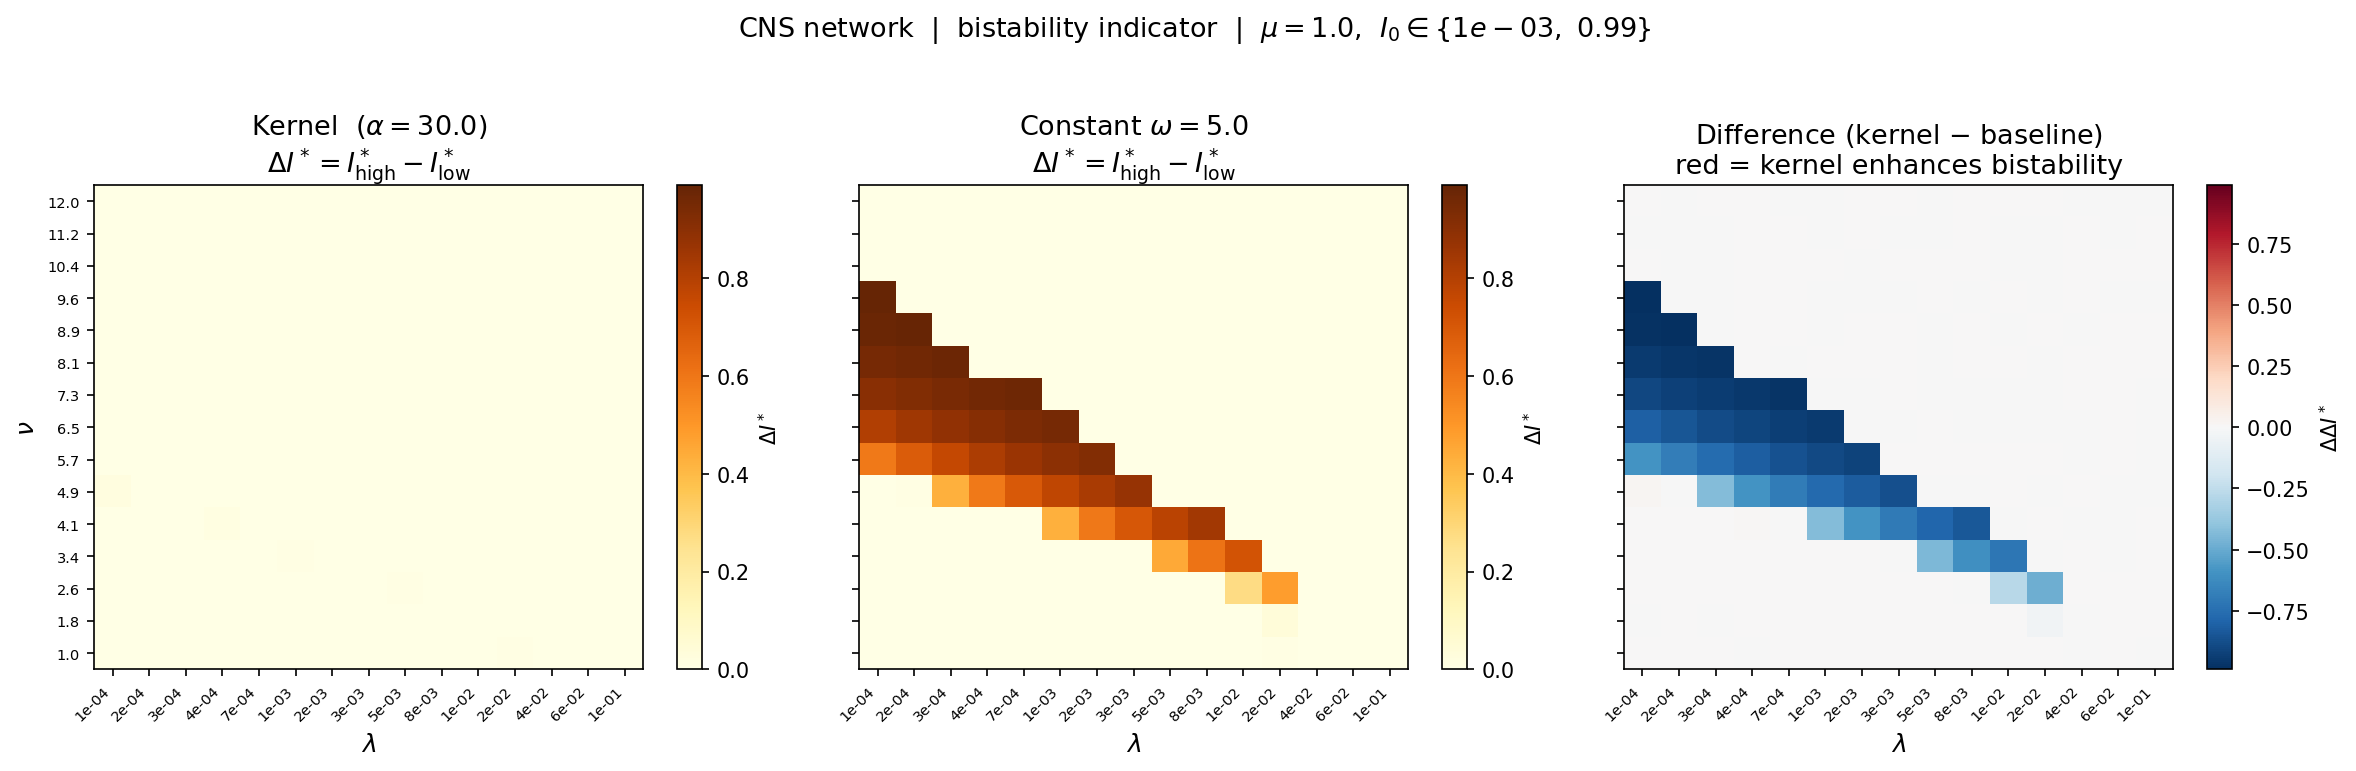
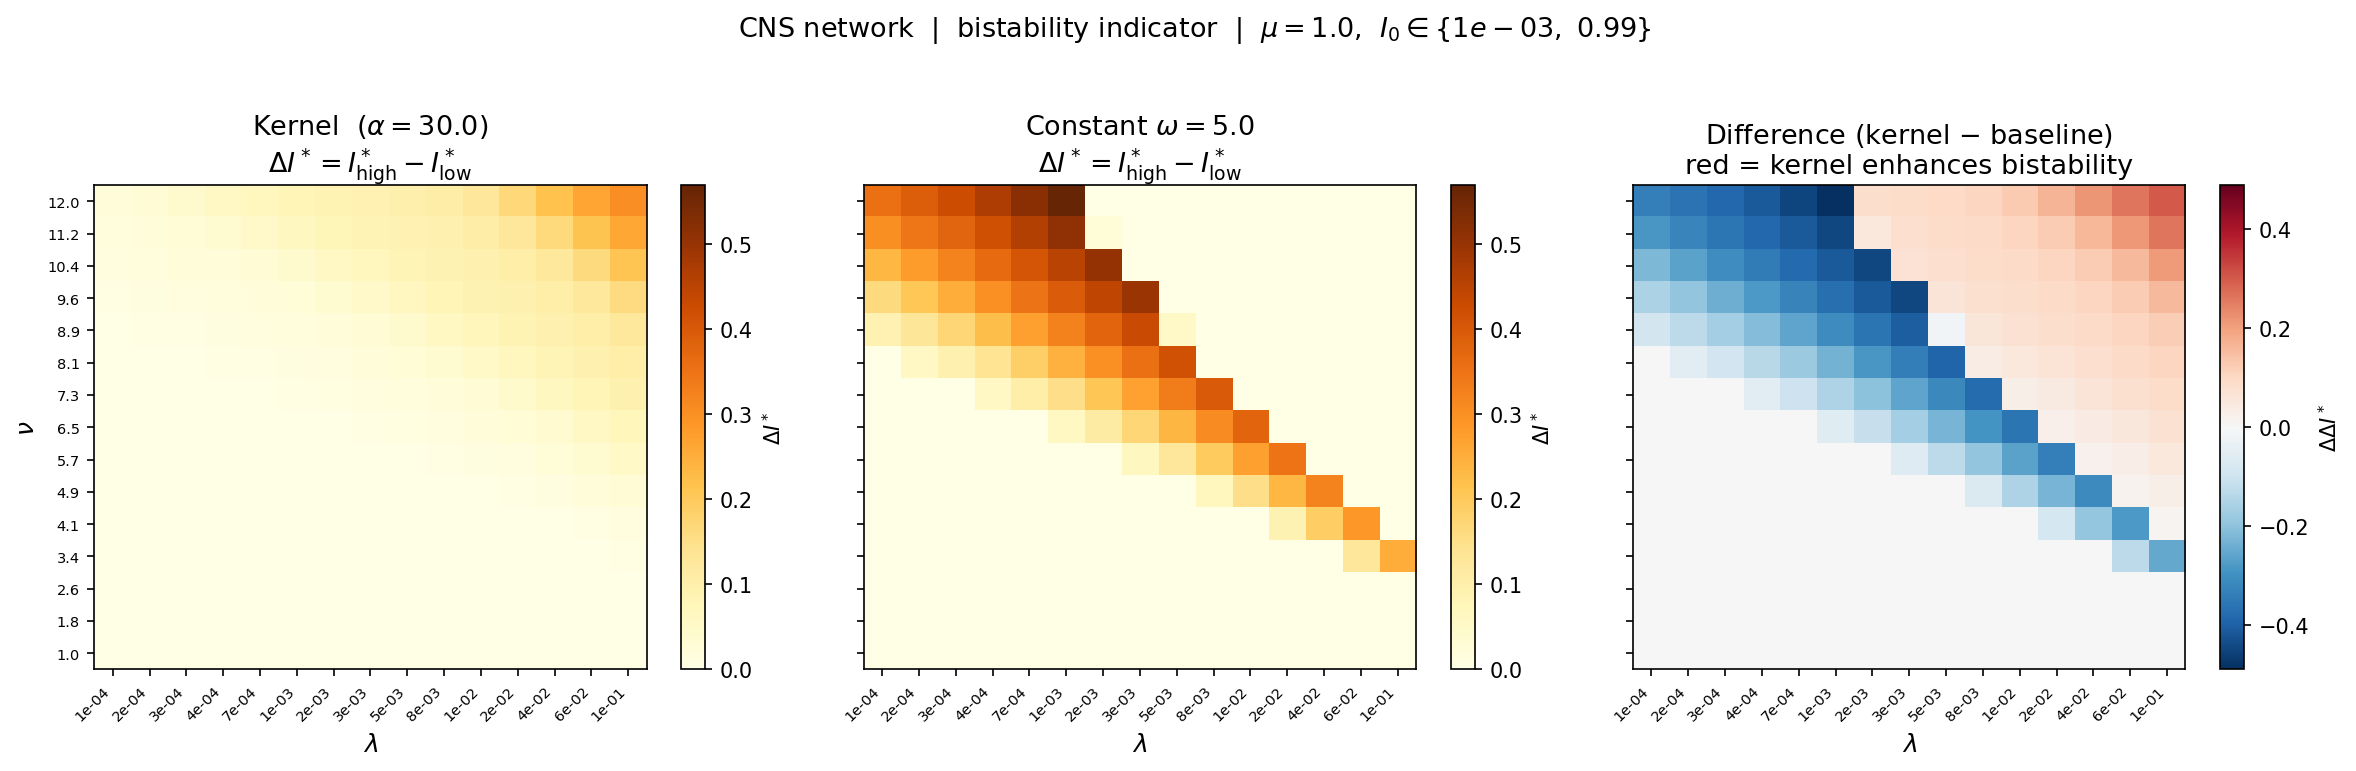
clean up

diff --git a/documentation/presentation_outline.md b/documentation/presentation_outline.md
@@ -1,0 +1,92 @@
+# Presentation Outline — 7 Minutes
+## Diversity-Tension Kernel in Temporal Higher-Order Contagion
+
+---
+
+## 1. Motivation: What the Original Paper Established (~1.5 min)
+
+- **Higher-order contagion on temporal networks:** Real groups gain and lose members over time. The paper (Lamata-Otín et al. 2026) showed that ignoring this — as static hypergraph models do — qualitatively mischaracterizes both the nature and location of critical transitions.
+
+- **The core finding:** A single constant plasticity rate ω governs everything. Increasing ω can convert a *continuous* (smooth) transition into a *discontinuous* (explosive) one with bistability — two stable states coexisting for the same parameters.
+
+- **Four dynamical phases emerge** when real group-size heterogeneity is added: continuous, discontinuous (absorbing-active bistability), hybrid continuous with active bistability, and a three-state regime (absorbing + two active states). The richer phases only exist at *finite* ω — not in the static or mean-field limits.
+
+- **The gap this creates:** ω is a fixed external parameter. It doesn't respond to what is actually happening inside the groups at any moment. Every group switches at the same rate regardless of whether it is homogeneous or deeply divided. This is socially unrealistic.
+
+- **Our motivating question:** What if the rate at which people leave a group depends on the *diversity* of that group? Groups where everyone agrees (homogeneous) should be stable; groups caught between two factions (mixed) should be volatile. This is the idea of **diversity tension**.
+
+---
+
+## 2. The Kernel — Contagion Dynamics Shape Group Dynamics (~1 min)
+
+- **The causal arrow in the original paper:** Group dynamics (plasticity rate ω) → shape → contagion dynamics (phase portrait). ω is set from outside; the system is driven.
+
+- **Our reversal:** Contagion dynamics (local prevalence φ = i/n inside each group) → shape → group switching rate w(n, i) → feeds back into → contagion dynamics. The system is *coevolutionary*.
+
+- **The diversity-tension kernel:**
+  - w(n, i) = α · φ · (1 − φ), where φ = i/n is the infected fraction within a group
+  - φ = 0 or 1 (homogeneous groups): **w = 0** — no switching, people stay
+  - φ = 0.5 (maximally mixed groups): **w = α/4** — maximum switching, people flee
+  - α controls the overall amplitude of the effect
+
+- **The social mechanism (Laurent's framing):** *"If the group is 50-50, people have to do too much code switching. Whereas if you're the only one in the minority, you just use the code of the other people."* Allegiance and homophily drive people out of divided groups and into groups that match their own state.
+
+- **Dynamical consequence — self-quenching at endpoints:** The kernel vanishes wherever groups are homogeneous. This means the system *self-regulates*: once disease dynamics push groups toward all-infected or all-susceptible, the switching rate drops to zero and those states become frozen. The system quenches itself.
+
+---
+
+## 3. Method — Leveraging the wAME Framework (~1 min)
+
+- **Foundation:** We keep the paper's full wAME (approximate master equations) structure intact. The two state variables are the same: s_k (susceptible fraction among nodes in k simultaneous groups) and f_{n,i} (fraction of size-n groups with i infected members).
+
+- **One structural modification — replace ω with w(n, i):** In the paper, every node switches at the same rate ω. In our model, the switching rate depends on which (n, i) state the group is in. This means the pool of people who are actively switching is no longer a random cross-section of the population.
+
+- **A new derived quantity — S_w:** Because switchers come disproportionately from mixed groups, the probability that a randomly chosen switcher is *susceptible* is no longer simply 1 − I (the global susceptible fraction). We must track a flux-weighted susceptible fraction:
+
+  > S_w = Σ (n−i) · w(n,i) · f_{n,i} · p_n  /  Σ n · w(n,i) · f_{n,i} · p_n
+
+  When w is constant, S_w reduces exactly to 1 − I (recovering the paper). When w is the diversity-tension kernel, S_w is biased toward ≈ 0.5 because only mixed groups are contributing switchers.
+
+- **Network — Synthetic_delta_k5:** We use a synthetic network where every individual belongs to exactly 5 groups simultaneously (g_k = δ_{k,5}). This activates the full multi-membership structure of the model (ρ > 0, the shared-membership infection pathway), while keeping the network regular and interpretable — avoiding the artifacts in empirical datasets like CNS.
+
+---
+
+## 4. The Tricritical Line Problem — Why We Sweep (~1 min)
+
+- **What the paper did analytically:** The tricritical line (Eq. 16) separates continuous from discontinuous transitions in (ω, λ) space. It is derived by setting d²M/dr² = 0 at threshold. Because ω is a scalar constant, it factors cleanly out of every sum in the AMEs — the algebra closes.
+
+- **Why this fails with the kernel:** w(n, i) varies independently for every (n, i) pair. It cannot be factored out of the sums. Every derivative picks up an additional (n, i) dependence that prevents the condition from closing analytically. As Laurent put it: *"This is like a big physics project — maybe a summer thing, or for the master's student in Spain."*
+
+- **The numerical alternative — vacc_sweep.py:**
+  - Sweep a 50 × 40 grid in (λ, ν) space: λ from 10⁻⁵ to 10⁻¹ (log scale), ν from 1.0 to 12.0
+  - For each (λ, ν) cell, integrate the full wAME system to steady state from **two initial conditions**: I₀ = 0.001 (invasion) and I₀ = 0.99 (persistence)
+  - Record δI = I*(high) − I*(low) — nonzero δI means two distinct attractors exist (bistability)
+  - Run one job per α value on the VACC cluster; baseline (constant ω = 5) run for comparison
+
+- **The δI heatmap is the computational tricritical map:** The boundary of the δI > 0 region in (λ, ν) space *is* the tricritical line evaluated at fixed ω (or fixed α), without requiring the analytic derivation.
+
+---
+
+## 5. Early Results — How They Connect Back to the Tricritical Line (~1.5 min)
+
+- **Baseline confirms the framework:** The constant-ω = 5 baseline produces 366 bistable cells with max δI = 0.93. The δI > 0 region concentrates at low λ and high ν — exactly the "Discontinuous" upper-left regime from Figure 3a of the paper. The method is recovering the right physics.
+
+- **The kernel systematically suppresses bistability:**
+
+  | α | bistable cells (δI > 0.05) | peak kernel rate |
+  |---|---------------------------|-----------------|
+  | 0.1 | 271 | 0.025 (≪ μ) |
+  | 1.0 | 106 | 0.25 (< μ) |
+  | 2.0 | 33 | 0.50 (< μ) |
+  | **5.0** | **0** | **1.25 (> μ)** |
+  | 10.0 | 0 | 2.50 |
+  | 20.0 | 0 | 5.00 |
+
+- **A natural critical scale:** Bistability collapses completely between α = 2 and α = 5 — exactly when the peak kernel rate (α/4) crosses the recovery rate μ = 1. Once mixing is faster than recovery, the system cannot sustain the heterogeneous intermediate states needed to support two attractors.
+
+- **Mechanistic interpretation in terms of Figure 3a:** The paper's tricritical line separates "Continuous" (lower-left) from "Discontinuous" (upper-right) in (ω, λ) space. The kernel's self-quenching at the endpoints (w → 0 at φ = 0, 1) is equivalent to pulling the *effective* ω toward zero whenever the system approaches the homogeneous fixed points. Above the critical α, this pull is strong enough that the system can never remain in the "Discontinuous" regime — bistability is structurally eliminated.
+
+- **What the plots show directly:**
+  - **Heatmap grid:** The bistable region (bright plasma colors) shrinks and shifts to ever lower λ as α grows, then vanishes entirely above α = 5
+  - **Bistable-cell count plot:** A sharp drop between α = 2 and α = 5, well below the baseline's 366-cell reference line
+  - **Overlay contour:** Each α's bistable footprint contracts inward; the baseline (gray) sets the outer boundary that the kernel progressively erodes

diff --git a/documentation/wAME_KERNEL_EQUATIONS.md b/documentation/wAME_KERNEL_EQUATIONS.md
@@ -21,14 +21,14 @@ This encodes **allegiance / homophily**: individuals prefer to stay in groups wh
 
 ## Kernel-Weighted Susceptible Fraction S_w
 
-This is the central new quantity introduced by the kernel. It is the fraction of **susceptible individuals** among all nodes who are actively switching, weighted by their switching rates:
+$$S_w = \frac{\displaystyle\sum_{n,i}(n - i)\, w(n,i)\, f_{n,i}}{\displaystyle\sum_{n,i} n\, w(n,i)\, f_{n,i}}$$
 
-$$S_w = \frac{\displaystyle\sum_{n,i}(n - i)\, w(n,i)\, f_{n,i}\, p_n}{\displaystyle\sum_{n,i} n\, w(n,i)\, f_{n,i}\, p_n}$$
+**Physical meaning:** S_w is the probability that a node entering a group (via switching) is susceptible. It is a mean-field average over all group states — the same type of calculation as r — built from first principles:
 
-**Numerator:** total susceptible switching flux across all group types.  
-**Denominator:** total switching flux (all individuals) across all group types.
+- **Numerator:** rate at which susceptible nodes leave their groups, summed over all group states. A group in state (n, i) has (n−i) susceptibles each leaving at rate w(n,i), weighted by f_{n,i}.
+- **Denominator:** rate at which any node leaves its group, summed over all group states. Same group has n total nodes each leaving at rate w(n,i).
 
-**Physical meaning:** Given that a random switching event occurs (drawn proportional to w(n,i)), S_w is the probability that the switching individual is susceptible. It generalizes the scalar approximation (1 − I) that holds when w is constant:
+Since w(n,i) is a **group trait** (all nodes in a group switch at the same rate regardless of state), groups are fully distinguished by (n, i) alone. The sum is only over n and i — no p_n needed.
 
 | Case | S_w |
 |------|-----|
@@ -109,7 +109,7 @@ $$I = \sum_k (1 - s_k)\, g_k$$
 
 $$w(n,i) = \alpha \cdot \frac{i}{n}\left(1 - \frac{i}{n}\right)$$
 
-$$S_w = \frac{\sum_{n,i}(n-i)\,w(n,i)\,f_{n,i}\,p_n}{\sum_{n,i} n\,w(n,i)\,f_{n,i}\,p_n}$$
+$$S_w = \frac{\sum_{n,i}(n-i)\,w(n,i)\,f_{n,i}}{\sum_{n,i} n\,w(n,i)\,f_{n,i}}$$
 
 $$r = \frac{\sum_{n,i}\beta(n,i)(n-i)\,f_{n,i}\,p_n}{\sum_{n,i}(n-i)\,f_{n,i}\,p_n}, \qquad \beta(n,i) = \lambda i^\nu$$
 
@@ -123,3 +123,11 @@ $$\frac{df_{n,i}}{dt} =
 (i+1)\bigl(\mu + w(n,i+1)\,S_w\bigr)f_{n,i+1}$$
 $$-\Bigl[i\bigl(\mu + w(n,i)\,S_w\bigr) + (n-i)\bigl(\beta(n,i)+\rho+w(n,i)(1-S_w)\bigr)\Bigr]f_{n,i}$$
 $$+(n-i+1)\bigl(\beta(n,i-1)+\rho+w(n,i-1)(1-S_w)\bigr)f_{n,i-1}$$
+
+---
+
+## Resolved: S_w does not include p_n
+
+**Confirmed with professor.** The scratch paper had ν (not μ) as a trailing term — a carryover from a different project where groups have different synergy exponents. It is not part of this model.
+
+S_w has no p_n because w(n,i) is a group trait: all nodes in a group switch at the same rate, so groups are fully identified by (n, i). The sum over f_{n,i} is the correct average — no structural reweighting by p_n is needed. This differs from r, where p_n is required because f_{n,i} is conditional on n and r is a per-susceptible infection rate that must account for how many groups of each size exist.

diff --git a/documentation/PARAM_SWEEP.md b/documentation/PARAM_SWEEP.md
@@ -8,6 +8,10 @@ The analytical tricritical condition (Eq. 16 of the paper) does not transfer to 
 
 ---
 
+## Commands
+`scp -r [email redacted]:/gpfs1/home/m/r/mrobine1/mocs_spring_2026_project/Files/vacc/ ~/mocs_spring_2026_project/Files/`
+`rm Files/vacc/sweep_kernel_alpha_*.npz`
+
 ## Sweep 1 — `run_sweep` (`kerenel.ipynb`, cells 6–9)
 
 **Scope:** 2D grid over (λ, ν). The main sweep for this project.